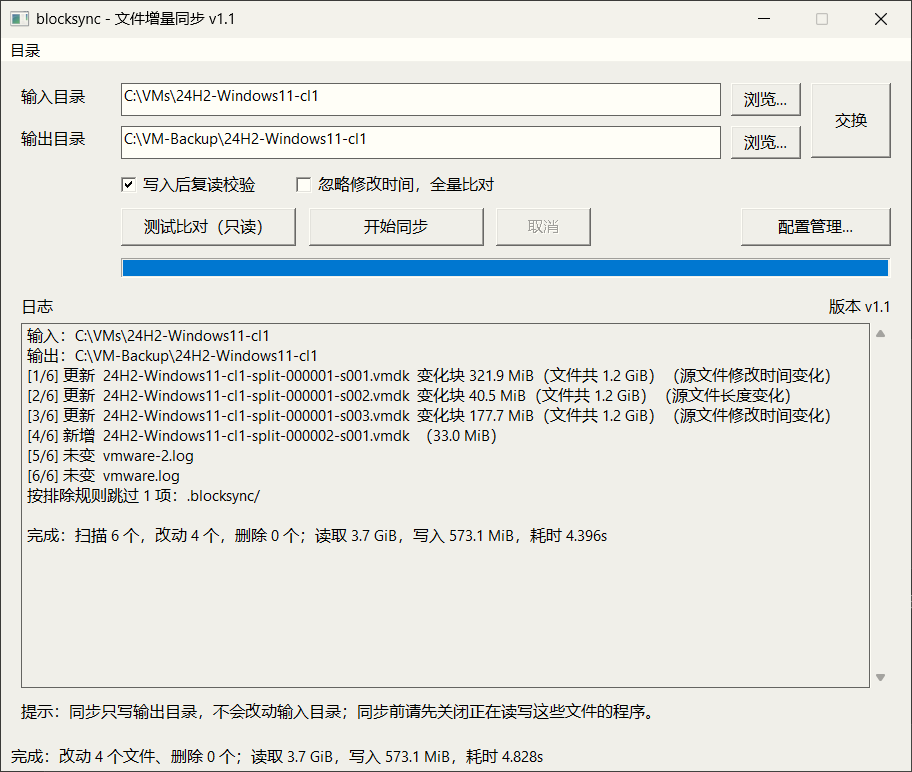
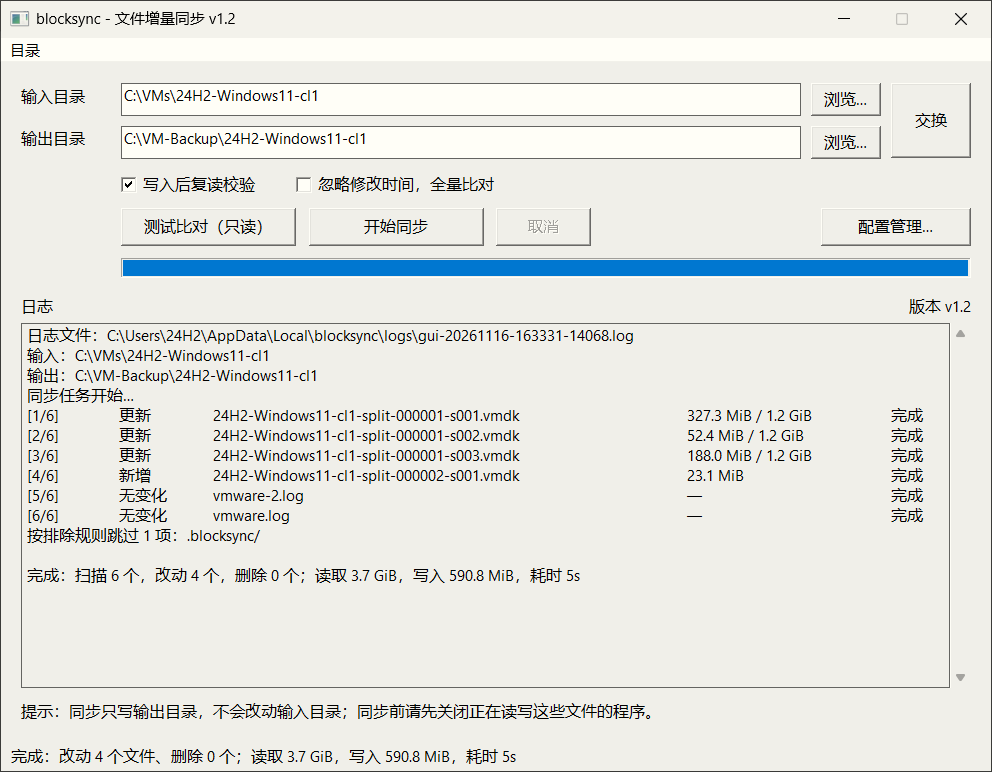
feat(ui): 增加打开日志目录入口并更新界面截图
- 目录菜单新增「打开日志目录」，目录不存在时先创建再打开
- 界面与命令行截图更新为当前版本
- 相关文档补充该入口说明

diff --git a/cmd/blocksync-ui/main.go b/cmd/blocksync-ui/main.go
@@ -145,8 +145,9 @@ const (
 	idYes         = 6
 	mbDefButton2  = 0x00000100
 
-	mfString = 0x00000000
-	mfPopup  = 0x00000010
+	mfString    = 0x00000000
+	mfPopup     = 0x00000010
+	mfSeparator = 0x00000800
 
 	swShow = 5
 
@@ -274,23 +275,24 @@ type appliedProfile struct {
 }
 
 const (
-	idEditSrc = 1001
-	idEditDst = 1002
-	idBSrc    = 1003
-	idBDst    = 1004
-	idChkVer  = 1005
-	idChkFull = 1006
-	idSync    = 1007
-	idDry     = 1008
-	idCancel  = 1009
-	idOpen    = 1011
-	idStatus  = 1012
-	idProg    = 1013
-	idLog     = 1014
-	idSwap    = 1015
-	idOpenSrc = 1016
-	idCfgMgr  = 1018
-	timerID   = 1
+	idEditSrc  = 1001
+	idEditDst  = 1002
+	idBSrc     = 1003
+	idBDst     = 1004
+	idChkVer   = 1005
+	idChkFull  = 1006
+	idSync     = 1007
+	idDry      = 1008
+	idCancel   = 1009
+	idOpen     = 1011
+	idStatus   = 1012
+	idProg     = 1013
+	idLog      = 1014
+	idSwap     = 1015
+	idOpenSrc  = 1016
+	idCfgMgr   = 1018
+	idOpenLogs = 1019
+	timerID    = 1
 
 	idCfgList      = 3001
 	idCfgName      = 3002
@@ -1202,6 +1204,8 @@ func buildMenu() syscall.Handle {
 	dir, _, _ := pCreatePopupMenu.Call()
 	pAppendMenuW.Call(dir, mfString, idOpenSrc, uintptr(unsafe.Pointer(u16("打开原目录"))))
 	pAppendMenuW.Call(dir, mfString, idOpen, uintptr(unsafe.Pointer(u16("打开输出目录"))))
+	pAppendMenuW.Call(dir, mfSeparator, 0, 0)
+	pAppendMenuW.Call(dir, mfString, idOpenLogs, uintptr(unsafe.Pointer(u16("打开日志目录"))))
 	pAppendMenuW.Call(menu, mfPopup, dir, uintptr(unsafe.Pointer(u16("目录"))))
 
 	return syscall.Handle(menu)
@@ -1214,6 +1218,20 @@ func openFolder(path string) {
 	}
 	pShellExecuteW.Call(0, uintptr(unsafe.Pointer(u16("open"))),
 		uintptr(unsafe.Pointer(u16(path))), 0, 0, swShow)
+}
+
+// openLogDir 打开本机日志目录；目录尚不存在时先创建。
+func openLogDir() {
+	dir, err := state.LogsDir()
+	if err != nil {
+		msgBox("无法确定日志目录："+err.Error(), mbOk|mbIconError)
+		return
+	}
+	if err := os.MkdirAll(dir, 0o755); err != nil {
+		msgBox("日志目录不可用："+err.Error(), mbOk|mbIconError)
+		return
+	}
+	openFolder(dir)
 }
 
 // ---------- 排除规则文本 ----------
@@ -1960,6 +1978,8 @@ func wndProc(hwnd syscall.Handle, m uint32, wParam, lParam uintptr) uintptr {
 			openFolder(strings.TrimSpace(getText(hEditDst)))
 		case idOpenSrc:
 			openFolder(strings.TrimSpace(getText(hEditSrc)))
+		case idOpenLogs:
+			openLogDir()
 		}
 		return 0
 

diff --git a/wiki/常见问题.md b/wiki/常见问题.md
@@ -24,7 +24,7 @@
 
 ## 日志去哪儿找
 
-- 图形界面：`%LOCALAPPDATA%\blocksync\logs\` 下按启动时间命名的 `gui-*.log`，一次启动一个文件，保留 7 天、总量不超过 200 MB；界面日志区按表格显示最近约 50 万字符，更早的行只在文件里。每次运行由 `===== … sync … =====` 与 `===== 结束：… =====` 包住，按这两行定位。
+- 图形界面：菜单「目录 → 打开日志目录」可直接打开；文件在 `%LOCALAPPDATA%\blocksync\logs\` 下按启动时间命名的 `gui-*.log`，一次启动一个文件，保留 7 天、总量不超过 200 MB；界面日志区按表格显示最近约 50 万字符，更早的行只在文件里。每次运行由 `===== … sync … =====` 与 `===== 结束：… =====` 包住，按这两行定位。
 - 命令行：默认只输出到终端。要留档加 `--log-file 路径`（标准输出与标准错误都会写进去）；用 `> 文件` 重定向只会收到 stdout，进度与错误在 stderr 上会漏掉，要写全用 `> 文件 2>&1`。
 - 命令行中文乱码：旧代码页的 cmd 不认 UTF-8，先 `chcp 65001`，或改用 Windows Terminal。
 

diff --git a/README.md b/README.md
@@ -8,12 +8,12 @@
 BlockSync 把文件切成 32 KiB 的块并记录 SHA-256，按块比较差异，一次同步只搬运变化的部分。对大文件反复小幅修改的场景（虚拟机磁盘、数据库文件、磁盘镜像、视频工程），写入量可以下降一到两个数量级。
 
 <p align="center">
-  <img src="blocksync-cli.png" width="900" alt="命令行同步：逐文件状态与变化块写入量"><br>
+  <img src="blocksync-cli.png" width="1000" alt="命令行同步：逐文件状态、变化块写入量与完成标记"><br>
   <sub><em style="color:#888">命令行界面</em></sub>
 </p>
 
 <p align="center">
-  <img src="blocksync-ui.png" width="900" alt="图形界面同步：逐文件变化块与合计读写量"><br>
+  <img src="blocksync-ui.png" width="1000" alt="图形界面同步：表格化日志（序号/状态/文件/变化量/完成）与合计读写量"><br>
   <sub><em style="color:#888">图形界面</em></sub>
 </p>
 
